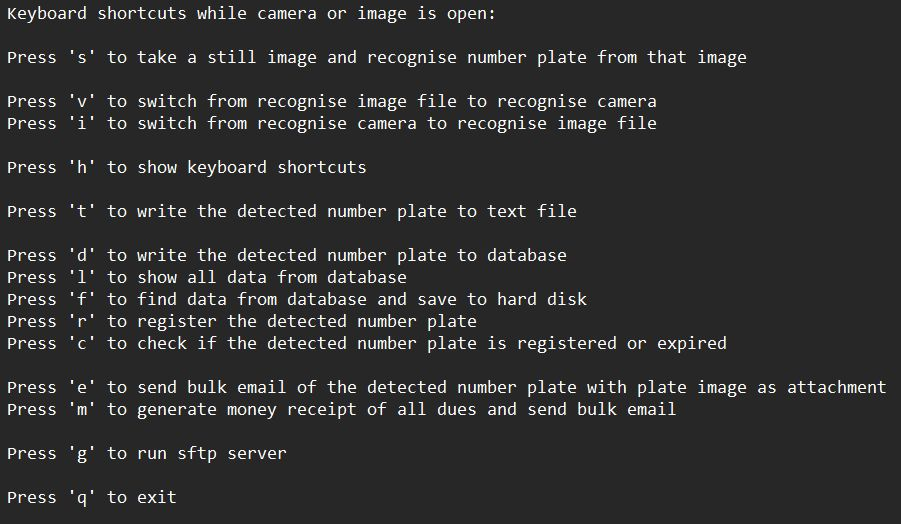
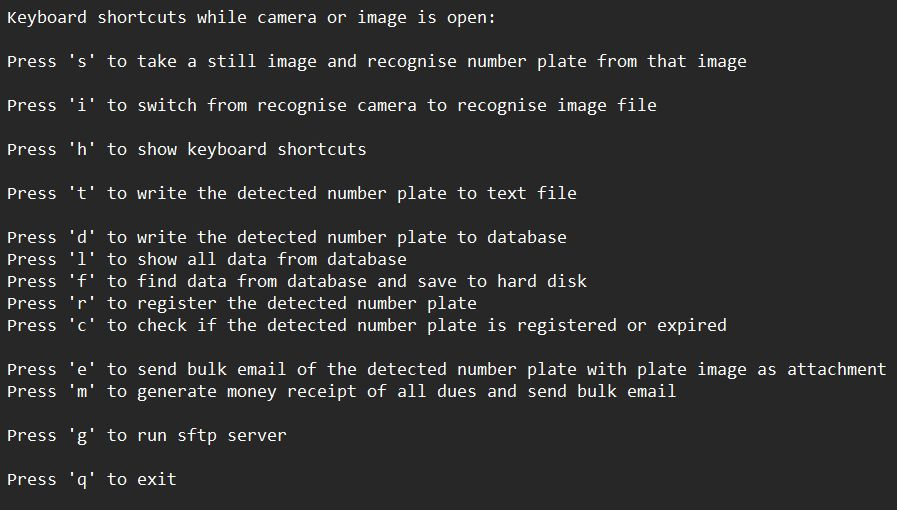
Minor feature updates

diff --git a/nprs.py b/nprs.py
@@ -1920,10 +1920,15 @@ def run_sftp_server():
     os.system("RebexTinySftpServer-Binaries-Latest\\RebexTinySftpServer.exe")
 
 def show_help():
-    global img
-    img = cv2.imread("help image.jpg")
+    global image_opened, opened_img
+    image_opened = True
+    opened_img = "help image.jpg"
+    img = cv2.imread(opened_img)
     global root
-    root.destroy()
+    try:
+        root.destroy()
+    except Exception as e:
+        pass
 
 def close():
     global root
@@ -2009,19 +2014,14 @@ if(is_raspberrypi()):
             break
         else:
             if(image_opened == True):
-                img = cv2.imread(opened_img)
-                cv2.imshow("Output", img)
+                image = cv2.imread(opened_img)
+                cv2.imshow("Output", image)
             else:
                 cv2.imshow("Output", img)
 
         # press 's' to take a still image and recognise number plate from that image
         if cv2.waitKey(1) & keyboard.is_pressed("s"):
             detect_number_plate()
-        
-        # press 'v' to switch from recognise image file to recognise camera
-        if keyboard.is_pressed("v"):
-            cv2.destroyAllWindows()
-            camera_recognize()
         
         # press 'i' to switch from recognise camera to recognise image file
         if keyboard.is_pressed("i"):
@@ -2052,9 +2052,11 @@ if(is_raspberrypi()):
         # press 'r' to register the detected number plate
         if keyboard.is_pressed("r"):
             register()
+
         # press 'c' to check if the detected number plate is registered or expired
         if keyboard.is_pressed("c"):
             check_if_registered_or_expired()
+
         # press 'e' to send bulk email of the detected number plate with plate image as attachment
         if keyboard.is_pressed("e"):
             send_email_of_detected_number_plate()
@@ -2085,19 +2087,14 @@ else:
             break
         else:
             if(image_opened == True):
-                img = cv2.imread(opened_img)
-                cv2.imshow("Output", img)
+                image = cv2.imread(opened_img)
+                cv2.imshow("Output", image)
             else:
                 cv2.imshow("Output", img)
 
         # press 's' to take a still image and recognise number plate from that image
         if cv2.waitKey(1) & keyboard.is_pressed("s"):
             detect_number_plate()
-        
-        # press 'v' to switch from recognise image file to recognise camera
-        if keyboard.is_pressed("v"):
-            cv2.destroyAllWindows()
-            camera_recognize()
         
         # press 'i' to switch from recognise camera to recognise image file
         if keyboard.is_pressed("i"):
